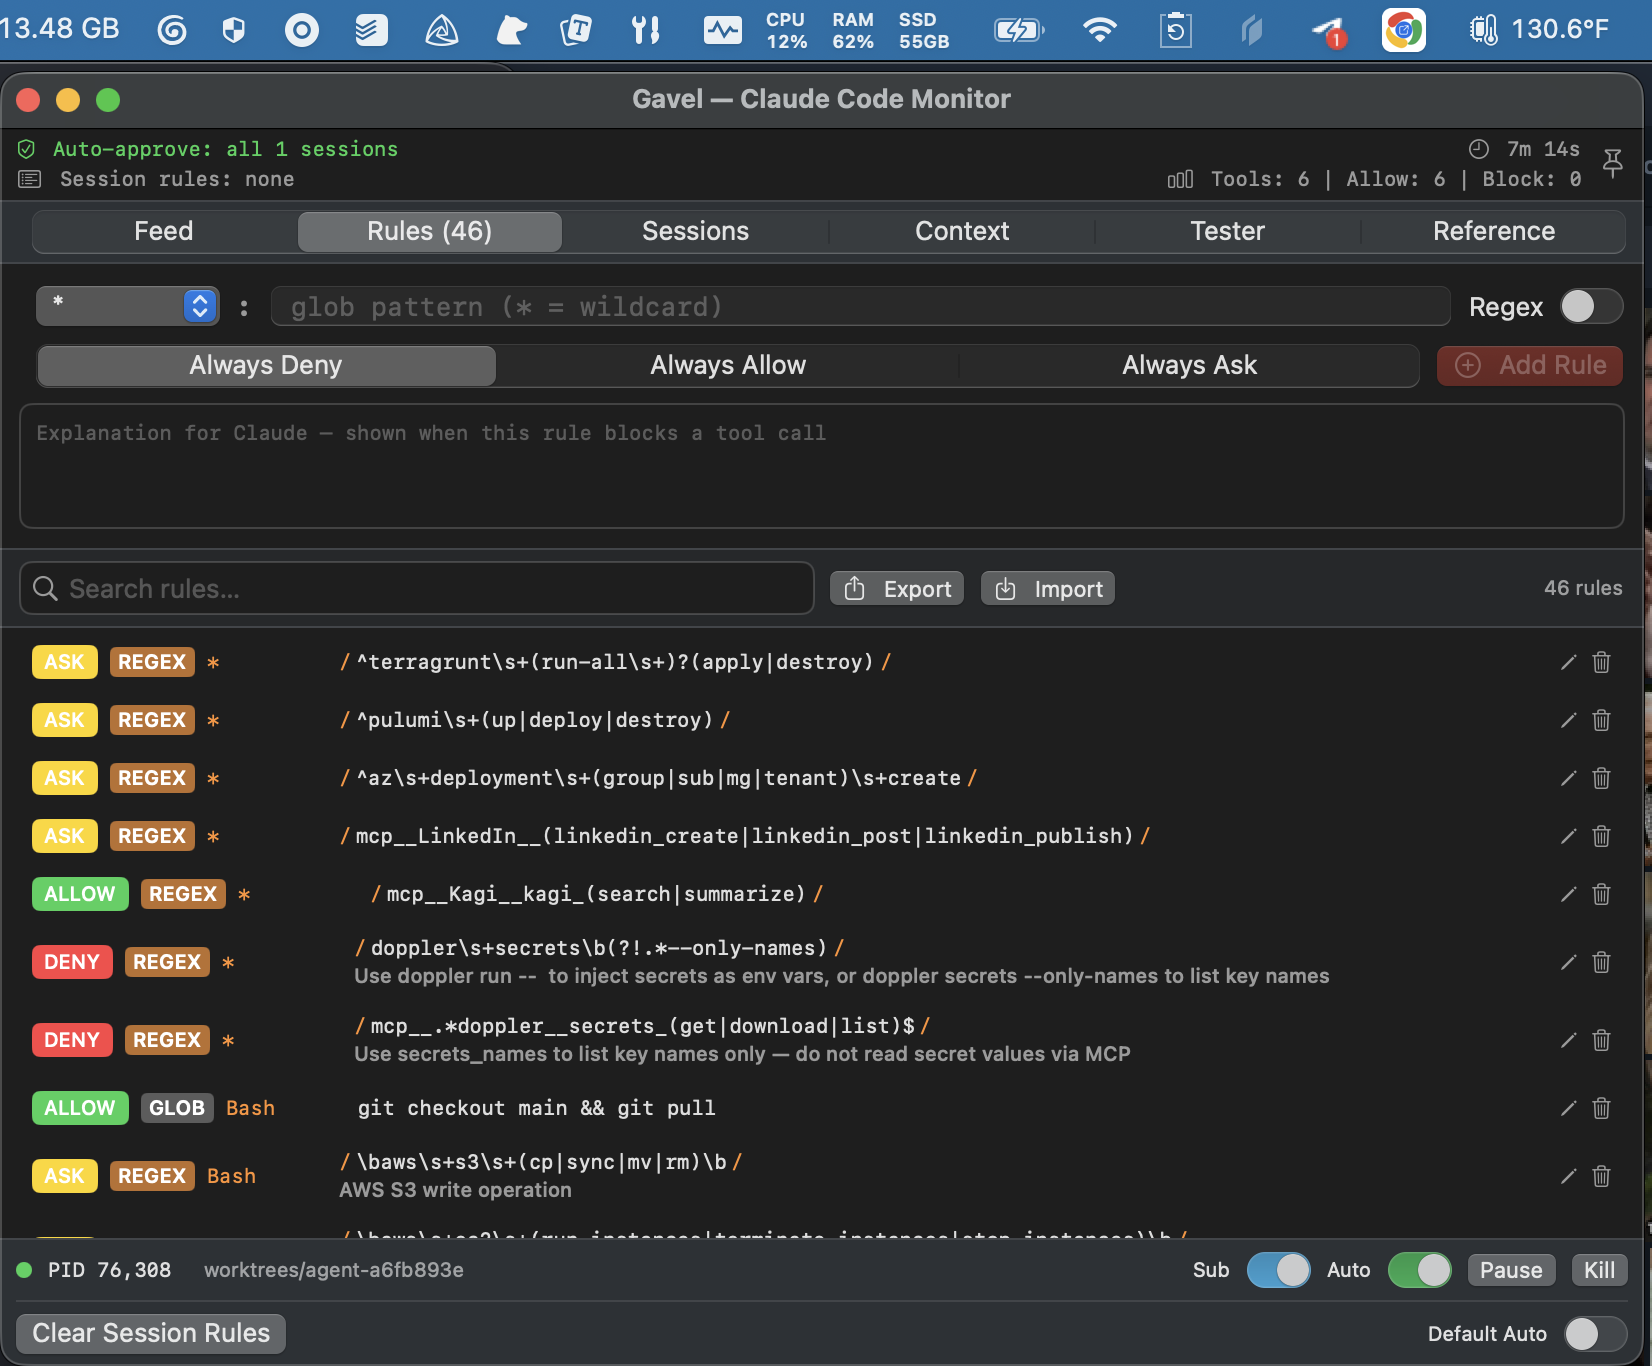
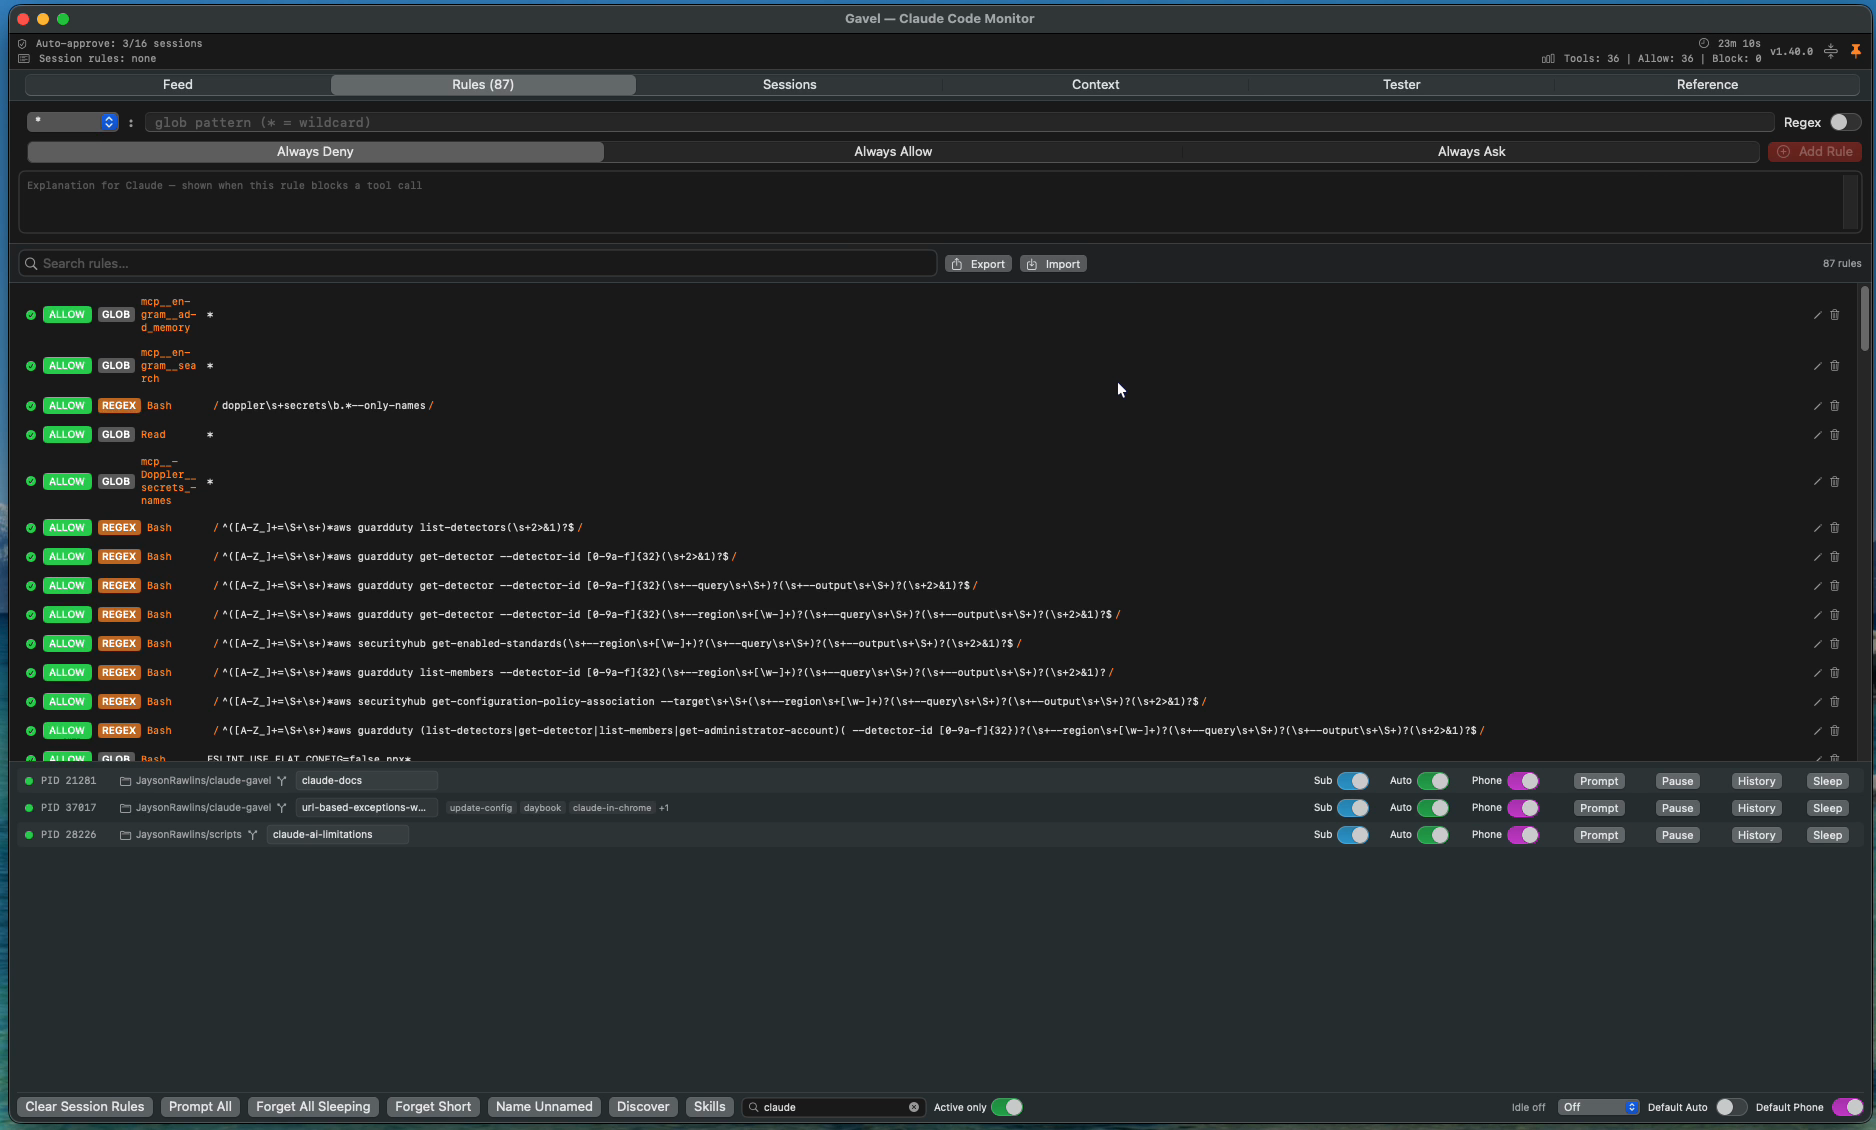
docs: refresh monitor screenshots and document rule proposals (#192)
Screenshots extracted from a screen recording of the v1.40.0 Monitor
(existing images dated back to 2026-04-19). New sections: Rule Proposals
inbox (Accept/Reject flow, tighten-only, audit journal) and Session rows
(per-session toggles, tombstones, bulk-ops bar). Refreshed feed/rules/
context/reference shots; added seeded-ask-rules and pattern-examples
images. Sessions-tab and tombstone shots deferred to a follow-up
re-record (client repos visible in the current captures).

Pull request: docs: refresh monitor screenshots and document rule proposals
Existing doc images dated to 2026-04-19 and predate most of the current Monitor. Screenshots here are extracted from a screen recording of v1.40.0.

- New **Rule Proposals** section: inbox banner, Accept/Reject flow, tighten-only + hash-chained audit journal
- New **Session rows** subsection: per-session Sub/Auto/Phone toggles, Prompt/Pause/History/Sleep, tombstones, bulk-ops bar
- Refreshed feed (now the hero image), rules, context, and reference shots
- Added seeded-ask-rules and reference pattern-examples images
- Tab list updated with the header tri-state (auto-approve all / partial / interactive)

Not in this PR: Sessions-tab and sleeping-tombstone screenshots — the current captures show client repo names, so those get a clean re-record later (tracked in my todo). Old sessions.png/tester.png stay in place until then.

Changed region(s): [[0.0, 0.0, 1.0, 1.0], [0.71, 0.6195, 0.7718, 0.6504]]

diff --git a/README.md b/README.md
@@ -4,7 +4,7 @@ Native macOS menu bar daemon for [Claude Code](https://docs.anthropic.com/en/doc
 
 Gavel intercepts every tool call your agent makes — file edits, shell commands, MCP calls — and routes them through a configurable approval engine before they execute. You see what's happening, control what's allowed, and block what isn't.
 
-![Feed tab with auto-approve enabled (green icon)](docs/images/feed-auto-approve.png)
+![Feed tab — live tool-call stream with allow/block verdicts](docs/images/feed.png)
 
 ## Install
 
@@ -77,6 +77,18 @@ Gavel ships with 12 seeded rules that prompt before potentially dangerous operat
 
 These are visible and editable in the Rules tab. You can override them with allow rules or add your own.
 
+![Seeded ask rules — push to main, terraform/pulumi apply, cloud deploys](docs/images/rules-ask.png)
+
+## Rule Proposals
+
+Claude can propose new guardrails from inside a session with `gavel-hook propose-rule` — for example after noticing a dangerous pattern that sailed through, or a denial that generalizes. Proposals are **inert until you accept them**. They land in an inbox banner at the top of the Rules tab:
+
+![Claude proposed a rule — no effect until accepted](docs/images/rule-proposal-inbox.png)
+
+Each proposal shows the verdict badge, tool and pattern, Claude's stated reason, an example command that would match, and which session proposed it and when. **Accept** compiles it into the live rule set; **Reject** discards it. Proposals are tighten-only — `allow` proposals are rejected server-side — and accepted rules are appended to the hash-chained audit journal (`rules.audit.jsonl`) like any manual edit.
+
+![Rules tab after accepting — banner cleared, rule count incremented](docs/images/rules-after-accept.png)
+
 ## Interactive Approval Panel
 
 When a tool call needs approval, a floating panel appears showing:
@@ -103,12 +115,14 @@ Each Claude Code session gets its own approval panel — parallel sessions don't
 
 Click the menu bar icon to open the monitor. Six tabs:
 
-- **Feed** — live stream of hook events with timestamps and decisions
+- **Feed** — live stream of hook events with timestamps and decisions, plus command output previews, session lifecycle events, and a `Ready for your input` marker when a session goes idle
 - **Rules** — searchable list of persistent rules with inline editing, import/export, glob/regex badges
 - **Sessions** — per-session state: active rules, stats, tainted paths, auto-approve status
 - **Context** — edit the session context injected into every Claude Code session
 - **Tester** — interactive regex/glob pattern tester with match highlighting
-- **Reference** — regex syntax cheat sheet
+- **Reference** — regex syntax cheat sheet and copy-ready rule-pattern examples per tool family
+
+The header strip shows the approval mode at a glance — `Auto-approve: all N sessions`, `Auto-approve: N/M sessions`, or `Interactive approval` — alongside live tool/allow/block counters and daemon uptime.
 
 ### Menu Bar Icon
 
@@ -126,6 +140,16 @@ Click the menu bar icon to open the monitor. Six tabs:
 ### Sessions
 
 ![Sessions tab](docs/images/sessions.png)
+
+### Session rows
+
+Every tab keeps a session strip docked at the bottom. Each live session shows its PID, repo and branch, an editable name (auto-named from the first prompt), skill tags observed during the session, and per-session toggles — **Sub** (sub-agent inherit), **Auto** (auto-approve), **Phone** (remote approval via Telegram) — plus **Prompt**, **Pause**, **History** (transcript viewer), and **Sleep** buttons.
+
+![Session rows — per-session toggles and controls](docs/images/session-rows.png)
+
+Slept and exited sessions remain as tombstones with **History**, **Resume** (copies a resume command), and **Forget**. The bottom bar holds bulk operations, a session filter, and the defaults for new sessions:
+
+![Bulk operations bar](docs/images/session-bulk-bar.png)
 
 ## Session Context
 
@@ -164,7 +188,11 @@ Test glob and regex patterns interactively before creating rules.
 
 ![Regex tester](docs/images/tester.png)
 
+The Reference tab pairs a regex cheat sheet with copy-ready rule-pattern examples for each tool family — file tools, Glob/Grep, Agent, MCP tools (block Slack/Jira writes while allowing reads, block Playwright navigation), and wildcard rules that match across all tools.
+
 ![Regex reference](docs/images/reference.png)
+
+![Rule pattern examples](docs/images/reference-examples.png)
 
 ## Security
 